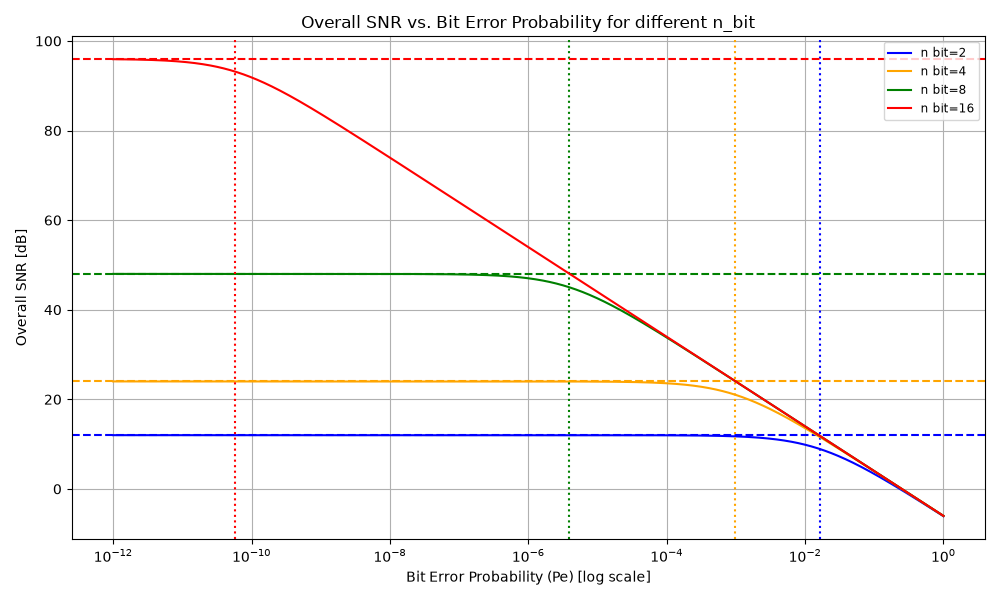
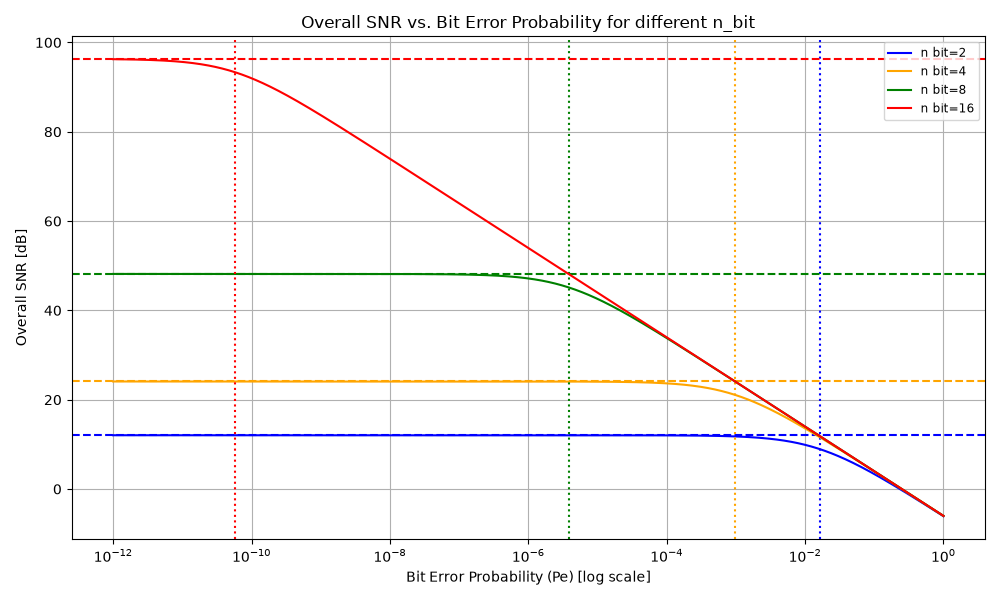
excercise 3 complete

diff --git a/core/laboratory_2.py b/core/laboratory_2.py
@@ -22,6 +22,9 @@ class ADC:
     def snr(self):
         snr_q_lin = 2**(2*self.n_bit)
         return lin2db(snr_q_lin)
+    
+   
+   
 
 class BSC:
     
@@ -60,6 +63,14 @@ class PCM:
     def critical_pe(self):
         M = self.M
         return 1 / (4 * (M**2 - 1))
+    
+    def minimum_sampling_frequency(self):
+        
+        minimum_fs = 2 * self.analog_bandwidth
+        n_steps = np.ceil(minimum_fs / ADC.fs_step)
+    
+        return n_steps * ADC.fs_step
+
 
 
     
@@ -77,7 +88,7 @@ def exercise_1():
     plt.xlabel('Number of bits')
     plt.ylabel('SNR [dB]')
 
-    print(quant_snr)
+    # print(quant_snr)
     plt.title('Quantization SNR vs. n_bit')
     plt.grid(True)
     plt.savefig("quant_snr.png")
@@ -95,6 +106,7 @@ def exercise_1():
     plt.title('BSC SNR vs. Bit Error Probability')
     plt.grid(True)
     plt.savefig("bsc_snr.png")
+    plt.show()
 
 
 
@@ -129,12 +141,33 @@ def exercise_2():
     plt.tight_layout()
 
     plt.savefig("PCM_ex_2.png")
+    plt.show()
 
 
 def exercise_3():
-    pass
+    bandwidth = 22e3
+    target_snr_db = 80
+    error_probability = 3.8e-7
 
+    min_n_bit = int(np.ceil((target_snr_db / 6)))
+    
+    adc = ADC(min_n_bit)
+    bsc = BSC(error_probability)
+    pcm = PCM(min_n_bit, error_probability, analog_bandwidth=bandwidth)
 
+    fs_min = pcm.minimum_sampling_frequency()
+    snr_q_db = adc.snr()
+    p_th = pcm.critical_pe()
+
+    supported = error_probability <= p_th
+
+    print(f"Minimum number of bits required: {min_n_bit}")
+    print(f"Minimum sampling frequency: {fs_min}")
+    print(f"Quantization SNR: {snr_q_db} dB")
+    if supported:
+        print(f"The system can support the given error probability of {error_probability}.")
+    else:
+        print(f"The system cannot support the given error probability of {error_probability}. The critical Pe is {p_th}.")
 
 if __name__ == "__main__":
     print("Laboratory 3 - ADC-BSC")